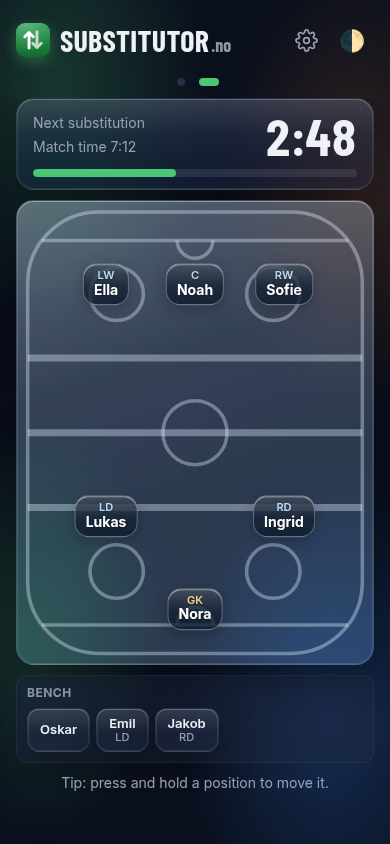
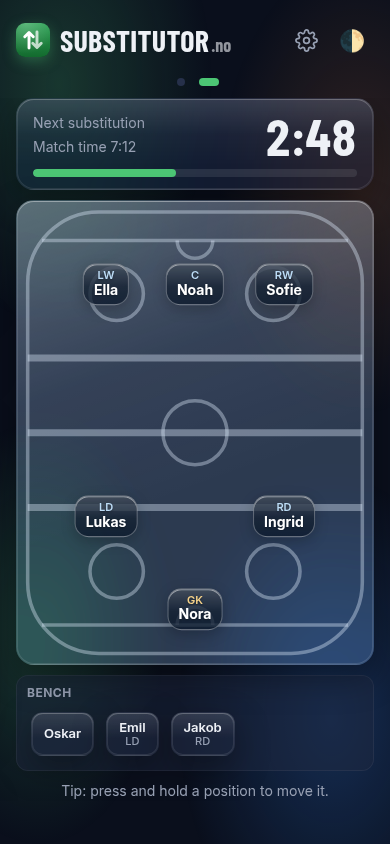
Docs: tap to swap, Done/Cancel corner, fresh screenshots

Changed region(s): [[0.0615, 0.8318, 0.8308, 0.955]]

diff --git a/CLAUDE.md b/CLAUDE.md
@@ -87,8 +87,8 @@ GitHub Pages serves `main` / root as-is, with no build step. `git push` redeploy
 
 ### Field view (optional, decided 2026-10-13)
 - With positions on, "Field view" in the Positions box (`team.settings.fieldView`) adds a second page to the match screen: swipe left from the list. It's native CSS scroll snapping (`.pages` with two `.page`s), with dots in `#page-dots` that show the page and can be tapped. `show()` always opens the match screen on the list.
-- The page has a compact copy of the clock (`#field-clock`, `.clock.mini`; `updateClock` updates both clocks), a drawn field (`#pitch`, inline SVG lines in a 200×260 viewBox matching `aspect-ratio: 10 / 13`, own goal at the bottom) with a marker per position (position name + who plays there, GK included), the bench as a row of chips below it, and a tip about the long press (`#field-tip`).
-- The field is tinted glass with real blur; the markers are deep-green glass with white text and fake the blur, to save battery. Tapping a marker or bench player opens the player options.
+- The page has a compact copy of the clock (`#field-clock`, `.clock.mini`; `updateClock` updates both clocks), a drawn field (`#pitch`, inline SVG lines in a 200×260 viewBox matching `aspect-ratio: 10 / 13`, own goal at the bottom) with a marker per position (position name + who plays there, GK included), the bench as a row of chips below it, and a tip (`#field-tip`: the long press, or what to do while arranging or swapping; `fieldTip()`).
+- The field is tinted glass with real blur; the markers are deep-green glass with white text and fake the blur, to save battery. Tapping a marker or bench player opens the player options (or, while swapping, picks who to swap with).
 - **Swap by tapping** (owner's wish 2026-10-14, like Fantasy Premier League): while the field view is in front (`fieldShowing()`: its left edge is on the screen, so it's true on a tablet sideways too, but not on the list page), the player options offer "Swap with…" first (field and bench players; owner's wish) instead of the "Change position with…" list. It sets `picking` (`setPicking()`): the player's marker or bench chip gets `.selected`, everyone `canSwap()` allows gets a pulsing ring (`.target`), the rest fade (`.pitch.picking`), the tip says who to tap, and `#field-done` reads Cancel. `#field-done` (Done/Cancel) is a solid pill in the toast's colours (dark on light, light on dark) so it never looks like a player, in the field's bottom-right corner (20px in), between the football goal box and the side line (owner's wish 2026-10-14: not over the lines, and on the field rather than below it, so the bench fits without scrolling). The bench chips are 12px apart so their rings don't touch. A tap on a target calls `swapWith()`: two players on the field swap positions (`swapPositions`, so the goalkeeper works too); field ↔ bench is an ad-hoc substitution through `applySwaps` (no popup, no countdown reset), the newcomer taking the spot. Tapping anything else, the empty field, Cancel, the dots or swiping back to the list stops picking; no long press while picking.
 - **Arranging, iPhone-style:** pressing and holding a marker (450 ms, `markerDown()`) starts arranging. All markers wiggle (`.pitch.arranging`, off with reduced motion), and any marker can then be dragged straight away (`startDrag()`: pointer events plus a non-passive `touchmove` that stops page scrolling while dragging). **Done** (`#field-done`) or a tap on an empty part of the field stops it (`setArranging()`). Moving the finger more than 10px before the hold is up counts as a swipe. `.pages.locked` stops swiping while arranging, and the `dragging` flag stops the tap that ends a drag from opening the player options.
 - Places are fractions of the field's size (y 0 is the far end the team attacks), saved in `team.settings.layout` `{gk: {x, y}, spots: [{x, y, name}]}` and remembered for later matches. Only dragged spots are saved (`placeSpot()`), each with the position's name at the time; `layoutFor()` ignores a saved spot whose name has changed, so a renamed position gets a fresh guess. (Spots saved before 2026-10-14 have no name and are ignored: the old code saved every spot on any drag.)

diff --git a/README.md b/README.md
@@ -69,7 +69,7 @@ Your setup is remembered for the next match.
 - Bench players show where they last played in a grey tag. The swap lists show positions too, so you can bring on someone for a particular position.
 
 **Field view** (if switched on): **swipe left** on the match screen to see a field with every position and who plays there, the bench below it, and a smaller clock. It's handy for showing the kids. Swipe right, or tap the dots at the top, to go back.
-- **Tap a player and choose Swap with…** to swap by tapping, like in Fantasy Premier League: everyone they can swap with gets a ring. Tap another position to swap places, or a bench player to substitute them straight away. Tap the empty field to cancel.
+- **Tap a player and choose Swap with…** (the first option) to swap by tapping, like in Fantasy Premier League: the player is highlighted and everyone they can swap with gets a ring. Tap another position to swap places (the goalkeeper too), or a bench player to substitute them straight away. You can also start from a bench player. Tap **Cancel** (bottom right on the field) or the empty field to stop. The countdown isn't restarted.
 - **Press and hold** a position to arrange them. They wiggle like app icons on an iPhone, and you can drag any of them where you want.
 - The positions start where their names suggest: "Spiss", "Striker" or "ST" at the front, "Høyre back" or "RB" at the back on the right, "Venstre kant" or "LW" out on the left, and so on. English and Norwegian names and the usual short forms work, for every sport: in handball "fløy" and "strek" go up front and a "back" in the middle; in ice hockey C, LW and RW are forwards and LD and RD defenders. Names it doesn't recognise start in the middle.
 - Tap **Done**, or an empty part of the field, when you've finished. The layout is remembered for the next match. If you rename a position, it moves back to where its new name suggests.

diff --git a/PLAN.md b/PLAN.md
@@ -86,3 +86,4 @@ All confirmed by the user. For how each one works in the code, see [CLAUDE.md](C
 - **Smoother swiping on iPhone** (2026-10-14): swiping between the list and the field view stopped half-way on an iPhone. The app changed the page height while the finger was still swiping; it now waits until the swipe has finished.
 - **Swap by tapping on the field view** (2026-10-14, like Fantasy Premier League): on the field view, the player options say "Swap with…" instead of opening a list. The player is highlighted and everyone they can swap with gets a ring; tap one to swap. Field player ↔ field player (or goalkeeper) swaps positions; field ↔ bench is a substitution straight away (owner chose to include the bench). Tap the empty field or Cancel to stop. The list page keeps the old "Change position with…" list.
 - **Done / Cancel on the field view** (2026-10-14): a solid dark pill (light in dark mode) so it stands out from the green players, moved to the field's bottom-right corner, away from the lines (owner tried it below the field, but wanted the room for the bench). Bench chips spaced further apart.
+- **Swap with… first** (2026-10-14): on the field view it's the top option in the player options, for field and bench players.
